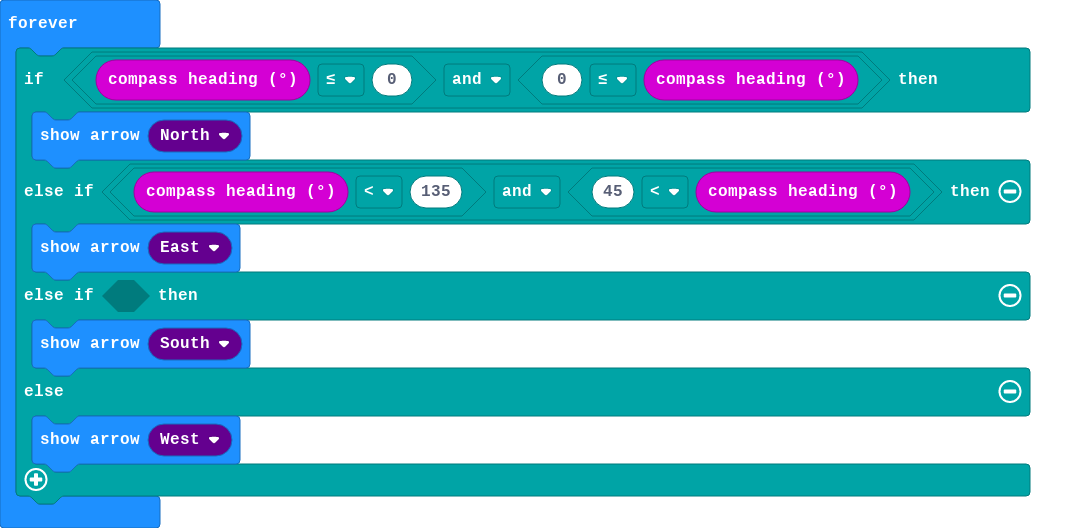
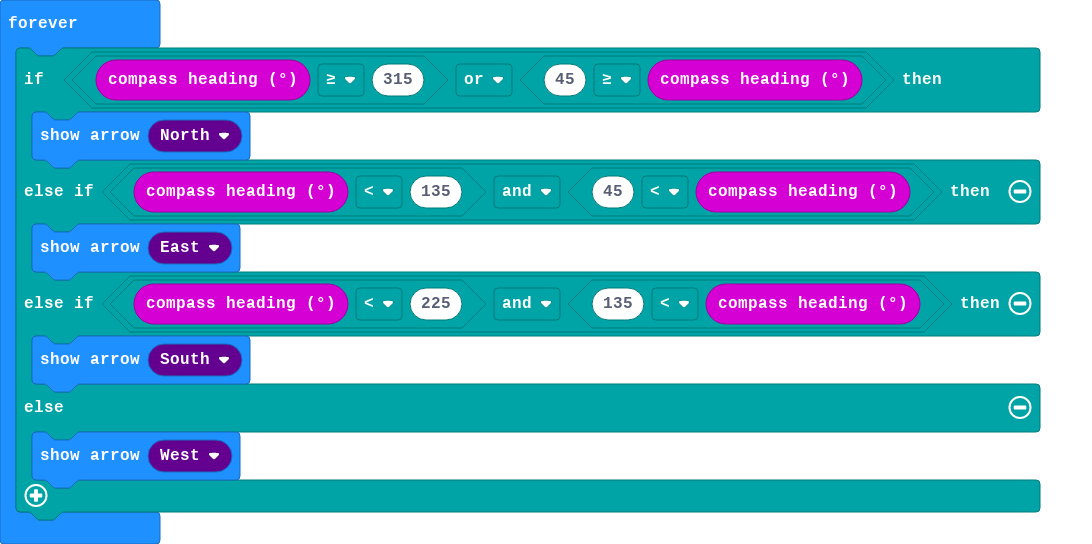
Update main.blocks, main.ts

Changed region(s): [[0.0, 0.0606, 0.976, 0.9394], [0.061, 0.9394, 0.9455, 0.9697], [0.0, 0.0303, 0.061, 0.0606]]

diff --git a/main.ts b/main.ts
@@ -1,9 +1,9 @@
 basic.forever(function () {
-    if (input.compassHeading() <= 0 && 0 <= input.compassHeading()) {
+    if (input.compassHeading() >= 315 || 45 >= input.compassHeading()) {
         basic.showArrow(ArrowNames.North)
     } else if (input.compassHeading() < 135 && 45 < input.compassHeading()) {
         basic.showArrow(ArrowNames.East)
-    } else if (false) {
+    } else if (input.compassHeading() < 225 && 135 < input.compassHeading()) {
         basic.showArrow(ArrowNames.South)
     } else {
         basic.showArrow(ArrowNames.West)
